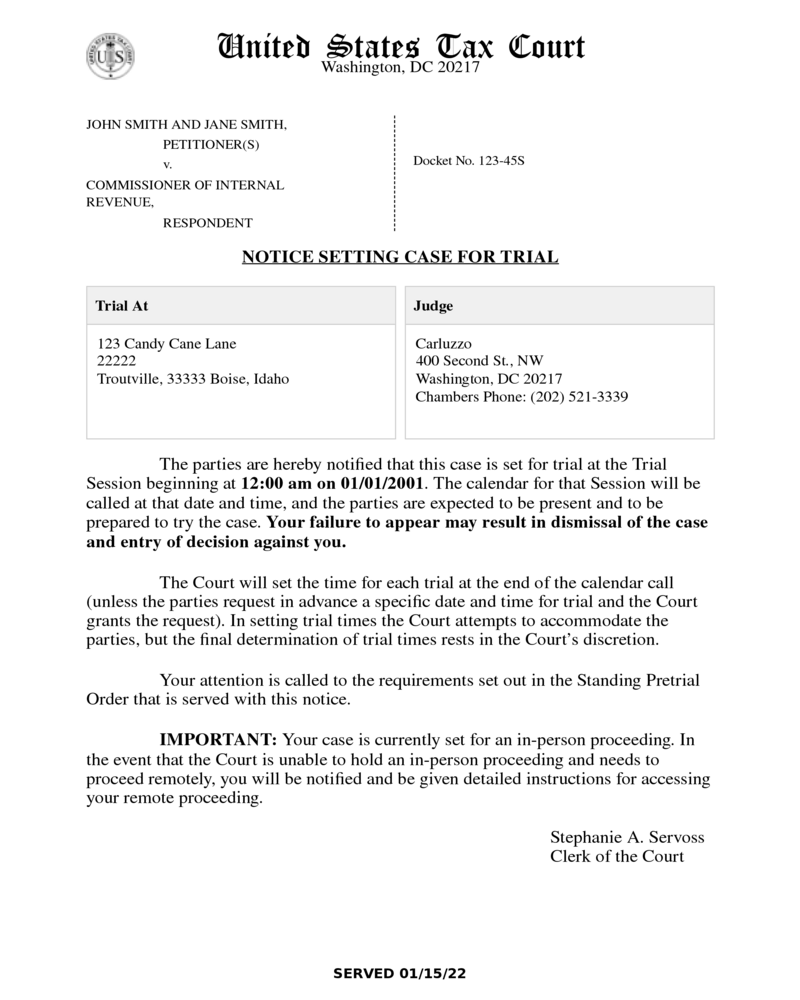
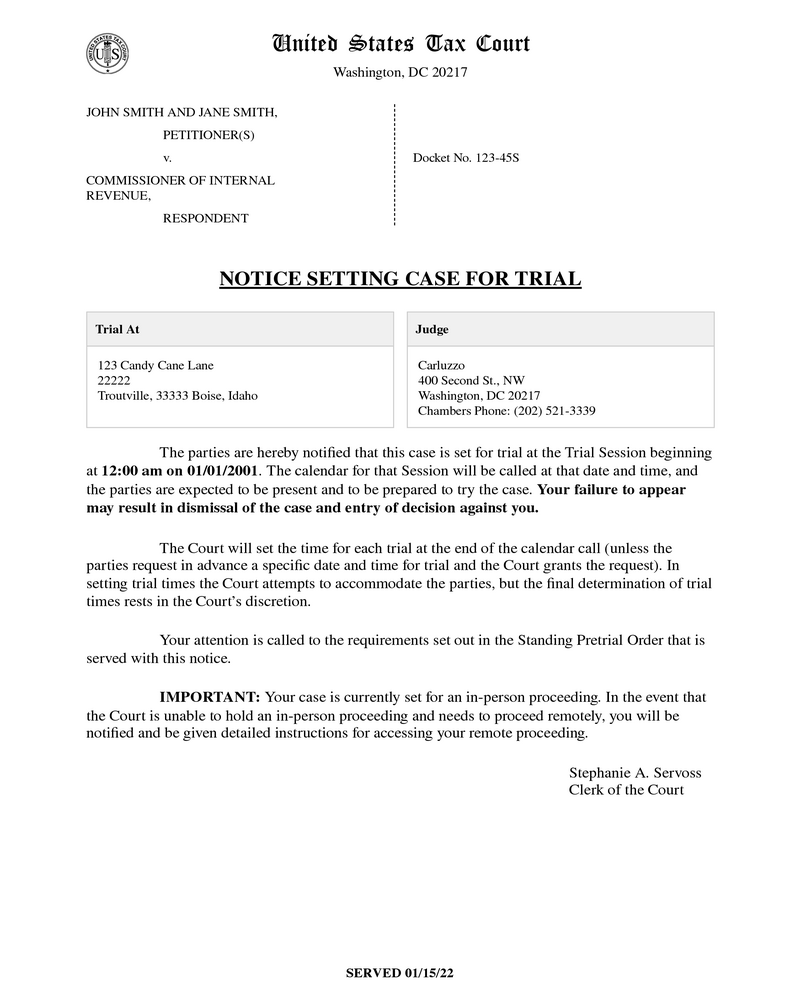
10076: remote version

diff --git a/shared/src/business/utilities/htmlGenerator/documents/notice-of-trial-issued.scss b/shared/src/business/utilities/htmlGenerator/documents/notice-of-trial-issued.scss
@@ -1,67 +1,117 @@
+@page notice-of-trial {
+  margin: 1.2cm 1cm 1.2cm 1cm;
+  size: 8.5in 11in;
+}
+
+@page notice-of-trial:first {
+  margin-top: 0;
+  margin-bottom: 1.2cm;
+}
+
+body:has(#notice-of-trial-pdf) {
+  margin-bottom: 20px;
+}
+
 #notice-of-trial-pdf {
+  page: notice-of-trial;
+
   .order-court-header {
-    margin-bottom: 28pt;
+    margin-bottom: 20pt;
+    line-height: 120%;
 
     .us-tax-court-seal {
-      width: 37pt;
-      height: 37pt;
-      margin-right: -37pt;
+      width: 32pt;
+      height: 32pt;
+      margin-right: -32pt;
     }
 
     h1 {
       margin-bottom: 0;
-      font-size: 20pt;
+      font-size: 14pt;
       font-weight: normal;
     }
 
     .court-address {
-      font-size: 13pt;
-      line-height: 14pt;
+      margin-top: 10pt;
+      font-size: 11pt;
+      line-height: 12pt;
     }
   }
 
   .order-docket-header {
     #caption {
-      line-height: 14pt;
+      font-size: 10pt;
+      line-height: 12pt;
 
       #caption-title {
         margin-top: 0;
+        margin-bottom: 0;
       }
 
       #caption-extension,
       #caption-v,
       #caption-respondent {
-        margin-top: 2pt;
+        margin-top: 6pt;
+        margin-bottom: 0;
       }
 
       #caption-commissioner {
-        margin-top: 2pt;
+        margin-top: 6pt;
+        margin-bottom: 0;
       }
     }
 
     #docket-number {
-      margin-top: 28pt;
+      margin-top: 36pt;
+      font-size: 10pt;
+      line-height: 12pt;
     }
 
     .document-title {
-      margin-top: 10pt;
-      margin-bottom: 6pt;
-      font-size: 14pt;
+      padding: 0;
+      margin: 34pt 0 0 0;
+      font-size: 16pt;
+      line-height: 1;
     }
   }
 
-  .info-box {
-    margin: 10px 0 15px 0;
+  .notice-info-boxes {
+    display: flex;
+    align-items: stretch;
+    padding-top: 0;
+    margin-top: 18pt;
+
+    .info-box {
+      margin: 0 0 12pt 0;
+    }
+
+    .info-box-trial,
+    .info-box-judge {
+      display: flex;
+      width: 49%;
+      height: auto;
+      flex-direction: column;
+      float: none;
+    }
+
+    .info-box-trial {
+      margin-right: 2%;
+    }
+
+    .info-box-content {
+      flex: 1;
+    }
   }
 
   .info-box-header {
-    font-size: 12pt;
+    padding: 6pt;
+    font-size: 10pt;
   }
 
   .info-box-content {
-    padding: 10px;
-    font-size: 12pt;
-    line-height: 14pt;
+    padding: 8pt;
+    font-size: 10pt;
+    line-height: 12pt;
   }
 
   .info-box-chambers-phone {
@@ -71,8 +121,8 @@
   #notice-body {
     p {
       margin-top: 0;
-      font-size: 14pt;
-      line-height: 15pt;
+      font-size: 12pt;
+      line-height: 14pt;
     }
 
     .notice-body-indent {
@@ -80,78 +130,30 @@
       text-indent: 56pt;
     }
 
-    .notice-access-instructions {
-      margin-bottom: 0;
-      text-indent: 0;
-    }
+    #notice-clerk-signature {
+      margin-top: 14pt;
 
-    p.text-center {
-      margin-bottom: 4pt;
-      text-indent: 0;
-    }
-
-    #notice-clerk-signature p {
-      width: auto;
-      margin-top: 0;
-      margin-right: 10px;
+      p {
+        width: auto;
+        margin-top: 0;
+        margin-right: 10pt;
+      }
     }
   }
 
   &.notice-of-trial-remote {
-    .order-docket-header .document-title {
-      margin-top: 4pt;
-      margin-bottom: 2pt;
-    }
-
-    .info-box {
-      margin: 0 0 2pt 0;
-    }
-
     #notice-body {
       p {
         line-height: 13pt;
       }
 
       .notice-body-indent {
-        margin-bottom: 8pt;
-      }
-
-      > .notice-body-indent:first-of-type {
-        margin-bottom: 4pt;
-      }
-
-      > .notice-body-indent:nth-of-type(2) {
-        margin-bottom: 8pt;
+        margin-bottom: 14pt;
       }
 
       .notice-access-remote-section {
-        margin-bottom: 0;
-
-        > p.text-center {
-          margin-bottom: 6pt;
-        }
-
-        .notice-access-meeting-info {
-          margin-bottom: 6pt;
-
-          p.text-center {
-            padding: 0;
-            margin: 0;
-            line-height: 13pt;
-          }
-
-          p.text-center:first-child {
-            margin-bottom: 6pt;
-          }
-        }
-
-        .notice-access-instructions {
-          margin-bottom: 6pt;
-          text-indent: 0;
-
-          &:last-of-type {
-            margin-bottom: 10pt;
-          }
+        .notice-body-indent {
+          margin-bottom: 10pt;
         }
       }
 
@@ -161,7 +163,7 @@
         }
 
         #notice-clerk-signature {
-          margin-top: 6pt;
+          margin-top: 8pt;
         }
       }
     }

diff --git a/shared/src/business/utilities/pdfGenerator/documentTemplates/NoticeOfTrialIssued.tsx b/shared/src/business/utilities/pdfGenerator/documentTemplates/NoticeOfTrialIssued.tsx
@@ -28,7 +28,7 @@ export const NoticeOfTrialIssued = ({
         caseTitle={caseTitle}
         docketNumberWithSuffix={docketNumberWithSuffix}
       />
-      <div>
+      <div className="notice-info-boxes">
         <div className="info-box info-box-trial" id="trial-info">
           <div className="info-box-header">Trial At</div>
           <div className="info-box-content">
@@ -54,11 +54,8 @@ export const NoticeOfTrialIssued = ({
           . The calendar for that Session will be called at that date and time,
           and the parties are directed to appear before the Court at a
           proceeding to be held using Zoomgov and to be prepared to try the
-          case.{' '}
-          <span className="text-bold">
-            Your failure to appear may result in dismissal of the case and entry
-            of decision against you.
-          </span>
+          case. Your failure to appear may result in dismissal of the case and
+          entry of decision against you.
         </p>
         <p className="notice-body-indent">
           The Court will set the time for each trial at the end of the calendar
@@ -68,33 +65,27 @@ export const NoticeOfTrialIssued = ({
         </p>
 
         <div className="notice-access-remote-section">
-          <p className="text-center text-underline text-bold">
+          <p className="notice-body-indent text-underline text-bold">
             ACCESS REMOTE PROCEEDING
           </p>
-          <p className="text-center">
+          <p className="notice-body-indent">
             Your Meeting ID and Passcode for the remote proceeding are:
           </p>
-          <div className="notice-access-meeting-info">
-            <p className="text-center">
-              <span className="text-bold">Meeting ID:</span>{' '}
-              {trialInfo.meetingId}
-            </p>
-            <p className="text-center">
-              <span className="text-bold">Passcode:</span> {trialInfo.password}
-            </p>
-          </div>
+          <p className="notice-body-indent">
+            <span className="text-bold">Meeting ID:</span> {trialInfo.meetingId}{' '}
+            <span className="text-bold">Passcode:</span> {trialInfo.password}
+          </p>
 
-          <p className="notice-access-instructions">
-            <span className="text-italic text-bold">Join online</span>: Go to{' '}
+          <p className="notice-body-indent">
+            Join online: Go to{' '}
             <span className="text-bold">www.zoomgov.com</span> and click
             &apos;Join&apos;. Enter the Meeting ID and Passcode above when
             prompted.
           </p>
 
-          <p className="notice-access-instructions">
-            <span className="text-italic text-bold">Join by telephone</span>:
-            Call {trialInfo.joinPhoneNumber}. Enter the Meeting ID and Passcode
-            above when prompted.
+          <p className="notice-body-indent">
+            Join by telephone: Call {trialInfo.joinPhoneNumber}. Enter the
+            Meeting ID and Passcode above when prompted.
           </p>
         </div>
 
@@ -114,6 +105,7 @@ export const NoticeOfTrialIssued = ({
               titleOfClerk={titleOfClerk}
             />
           </div>
+          <div className="clear" />
         </div>
       </div>
     </div>

diff --git a/shared/src/business/utilities/pdfGenerator/documentTemplates/NoticeOfTrialIssuedInPerson.tsx b/shared/src/business/utilities/pdfGenerator/documentTemplates/NoticeOfTrialIssuedInPerson.tsx
@@ -28,7 +28,7 @@ export const NoticeOfTrialIssuedInPerson = ({
         caseTitle={caseTitle}
         docketNumberWithSuffix={docketNumberWithSuffix}
       />
-      <div>
+      <div className="notice-info-boxes">
         <div className="info-box info-box-trial" id="trial-info">
           <div className="info-box-header">Trial At</div>
           <div className="info-box-content">
